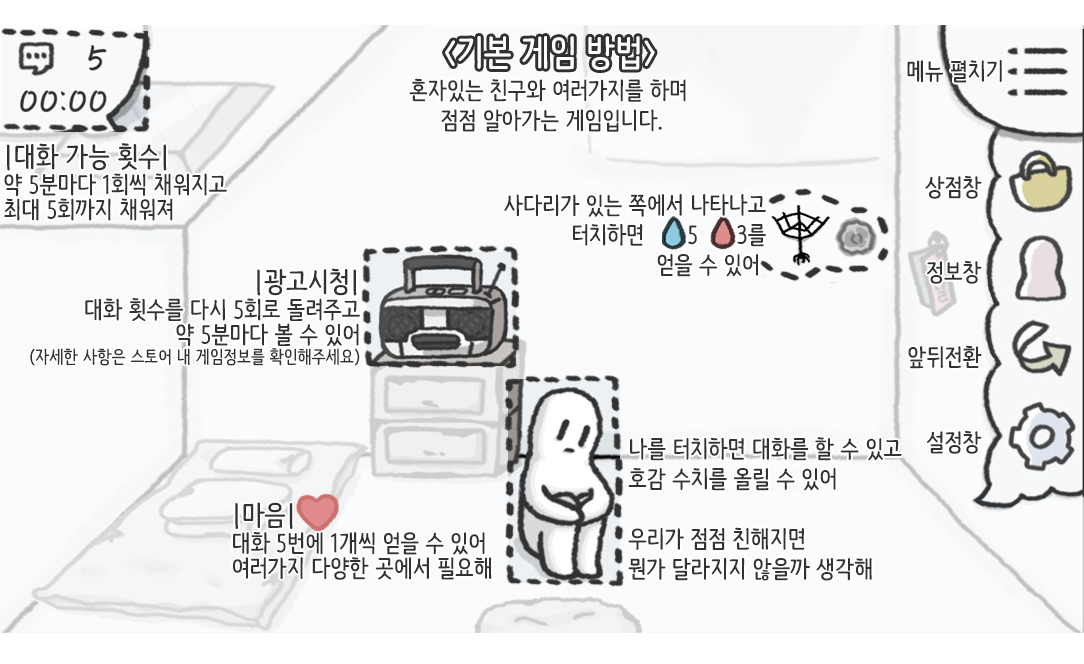
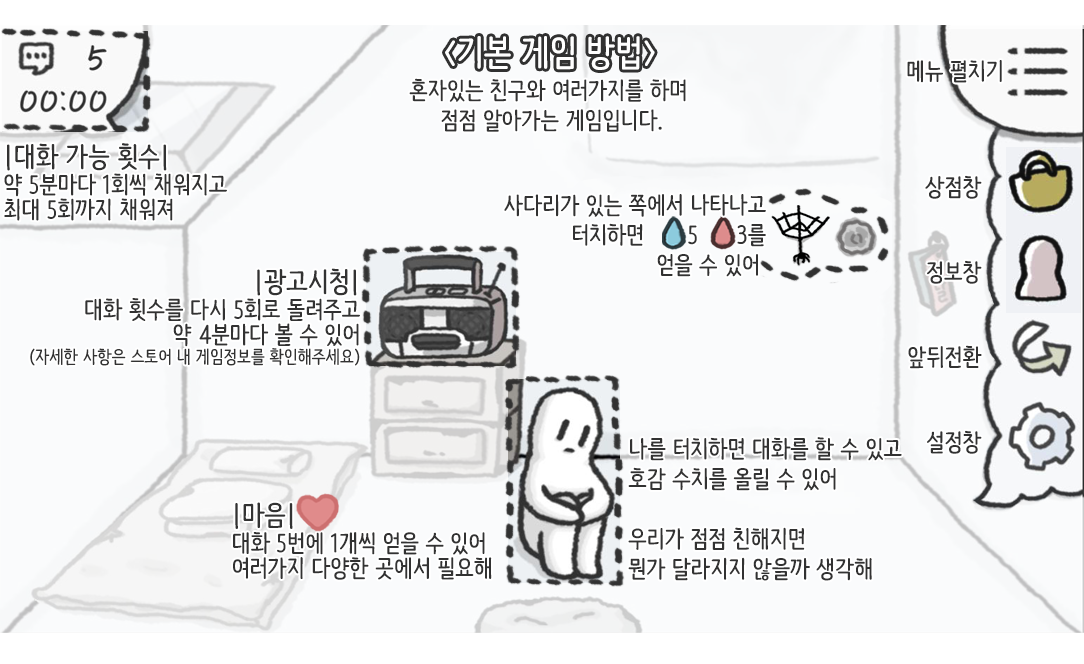
최종
파레트뒤로가기
도전과제7001500 이름변경
그림버그수정
스위치레벨
광고4분
공원 버그 수정

Changed region(s): [[0.9133, 0.2108, 1.0, 0.4518], [0.1522, 0.4819, 0.2131, 0.512]]

diff --git a/_Script/ParkShop.cs b/_Script/ParkShop.cs
@@ -111,6 +111,16 @@ public class ParkShop : MonoBehaviour {
                 special_i = eventPaint_i[Random.Range(i, 4)];
             }
         }
+        if (special_i == 9)
+        {
+            for (int i = 0; i < 4; i++)
+            {
+                if (eventPaint_i[i] != 9)
+                {
+                    special_i = eventPaint_i[i];
+                }
+            }
+        }
         if (special_i != 9)
         {
             eventPaintImg_obj[0].GetComponent<Image>().sprite = specialPaint_spr[special_i];
@@ -118,6 +128,7 @@ public class ParkShop : MonoBehaviour {
         else
         {
             eventPaintImg_obj[0].GetComponent<Image>().sprite = soldOut_spr[1];
+            eventPaintImg_obj[0].GetComponent<Button>().interactable = false;
         }
 
         //영화
@@ -137,6 +148,18 @@ public class ParkShop : MonoBehaviour {
                 movie_i = eventPaint_i[Random.Range(i, 4)];
             }
         }
+        if (movie_i == 9)
+        {
+            for (int i = 0; i < 4; i++)
+            {
+                if (eventPaint_i[i] != 9)
+                {
+                    movie_i = eventPaint_i[i];
+                }
+            }
+        }
+            
+
         if (movie_i != 9)
         {
             eventPaintImg_obj[1].GetComponent<Image>().sprite = moviePaint_spr[movie_i];
@@ -144,6 +167,7 @@ public class ParkShop : MonoBehaviour {
         else
         {
             eventPaintImg_obj[1].GetComponent<Image>().sprite = soldOut_spr[1];
+            eventPaintImg_obj[1].GetComponent<Button>().interactable = false;
         }
 
         //스토리
@@ -151,6 +175,7 @@ public class ParkShop : MonoBehaviour {
         if(PlayerPrefs.GetInt("paints", 0) == 10)
         {
             eventPaintImg_obj[2].GetComponent<Image>().sprite = soldOut_spr[1];
+            eventPaintImg_obj[2].GetComponent<Button>().interactable = false;
         }
         else
         {

diff --git a/_Script/UnityADS.cs b/_Script/UnityADS.cs
@@ -61,7 +61,7 @@ public class UnityADS : MonoBehaviour {
         {
             ShowOptions options = new ShowOptions { resultCallback = HandleShowResult };
             Advertisement.Show("rewardedVideo", options);
-            PlayerPrefs.SetInt("secf", 300);
+            PlayerPrefs.SetInt("secf", 240);
         }
         else
         {
@@ -95,7 +95,7 @@ public class UnityADS : MonoBehaviour {
             StartCoroutine("adTimeFlow");
             StartCoroutine("adAniTime");
             PlayerPrefs.SetInt("talk", 5);
-            PlayerPrefs.SetInt("secf", 300);
+            PlayerPrefs.SetInt("secf", 240);
         }
     }
 
@@ -103,7 +103,7 @@ public class UnityADS : MonoBehaviour {
 
 	IEnumerator adTimeFlow(){
 		while (mG>-1) {
-			sG = PlayerPrefs.GetInt("secf",300);
+			sG = PlayerPrefs.GetInt("secf",240);
             //Debug.Log(sG);
             mG = (int)(sG / 60);
 			sG = sG-(sG / 60)*60;
@@ -114,7 +114,7 @@ public class UnityADS : MonoBehaviour {
                 radio_ani.SetActive(false);
                 adBtn_obj.SetActive(false);
             }
-			sG = PlayerPrefs.GetInt("secf",300);
+			sG = PlayerPrefs.GetInt("secf",240);
 			sG = sG - 1;
 			if (sG < 0) {
 				sG = -1;
@@ -160,7 +160,7 @@ public class UnityADS : MonoBehaviour {
     {
         while (mG2 > -1)
         {
-            sG2 = PlayerPrefs.GetInt("secf2", 300);
+            sG2 = PlayerPrefs.GetInt("secf2", 240);
             //Debug.Log(sG);
             mG2= (int)(sG2 / 60);
             sG2 = sG2 - (sG2 / 60) * 60;
@@ -174,7 +174,7 @@ public class UnityADS : MonoBehaviour {
                 radio_ani.SetActive(false);
                 adBtn_obj.SetActive(false);
             }
-            sG2 = PlayerPrefs.GetInt("secf2", 300);
+            sG2 = PlayerPrefs.GetInt("secf2", 240);
             sG2 = sG2 - 1;
             if (sG2 < 0)
             {

diff --git a/_Script/MainShop.cs b/_Script/MainShop.cs
@@ -380,7 +380,10 @@ public class MainShop : ShopHandler {
                 {
                     if (PlayerPrefs.GetInt("switchshop", 0) == 0)
                     {
-                        PlayerPrefs.SetInt("switchshop", 1);
+                        if (PlayerPrefs.GetInt("lightlv", 0) >= 4)
+                        {
+                            PlayerPrefs.SetInt("switchshop", 1);
+                        }
 
                     }
                 }
@@ -390,6 +393,8 @@ public class MainShop : ShopHandler {
                 lvNum_txt[i].text = "LV.MAX";
                 coldPrice_txt[i].text = "-";
                 hotPrice_txt[i].text = "-";
+
+
             }else{ }
         }
         

diff --git a/_Script/MainInfo.cs b/_Script/MainInfo.cs
@@ -61,6 +61,12 @@ public class MainInfo : MonoBehaviour {
         //호감레벨
         loveLv_i = PlayerPrefs.GetInt("lovelv", 0);
         loveLv_txt.text = "" + loveLv_i;
+
+        if(PlayerPrefs.GetInt("lovelv", 0) >= 13)
+        {
+            loveLv_txt.text = "♥";
+        }
+
         face_obj.GetComponent<Image>().sprite = face_spr[loveLv_i];
         InfoCheckList();
         //업적

diff --git a/_Script/secondRoomFunction.cs b/_Script/secondRoomFunction.cs
@@ -832,7 +832,7 @@ public class secondRoomFunction : CavasData {
                 {
                     outGo_obj.GetComponent<Button>().interactable = false;
                 }
-            }            yield return new WaitForSeconds(1f);
+            }            yield return new WaitForSeconds(0.5f);
         }
     }
 

diff --git a/_Script/AdmobADS.cs b/_Script/AdmobADS.cs
@@ -97,7 +97,7 @@ public class AdmobADS : MonoBehaviour {
     public void HandleRewardBasedVideoRewarded(object sender, Reward args)
     {
         PlayerPrefs.SetInt("talk", 5);
-        PlayerPrefs.SetInt("secf2", 300);
+        PlayerPrefs.SetInt("secf2", 240);
     }
 
     //동영상닫음

diff --git a/_Script/MainBtnEvt.cs b/_Script/MainBtnEvt.cs
@@ -662,6 +662,8 @@ public class MainBtnEvt : CavasData
     public void OpenGoHome()
     {
         goHome_obj.SetActive(true);
+        StopCoroutine("menuFlow");
+        StartCoroutine("menuFlowBack");
     }
     public void CloseGoHome()
     {
